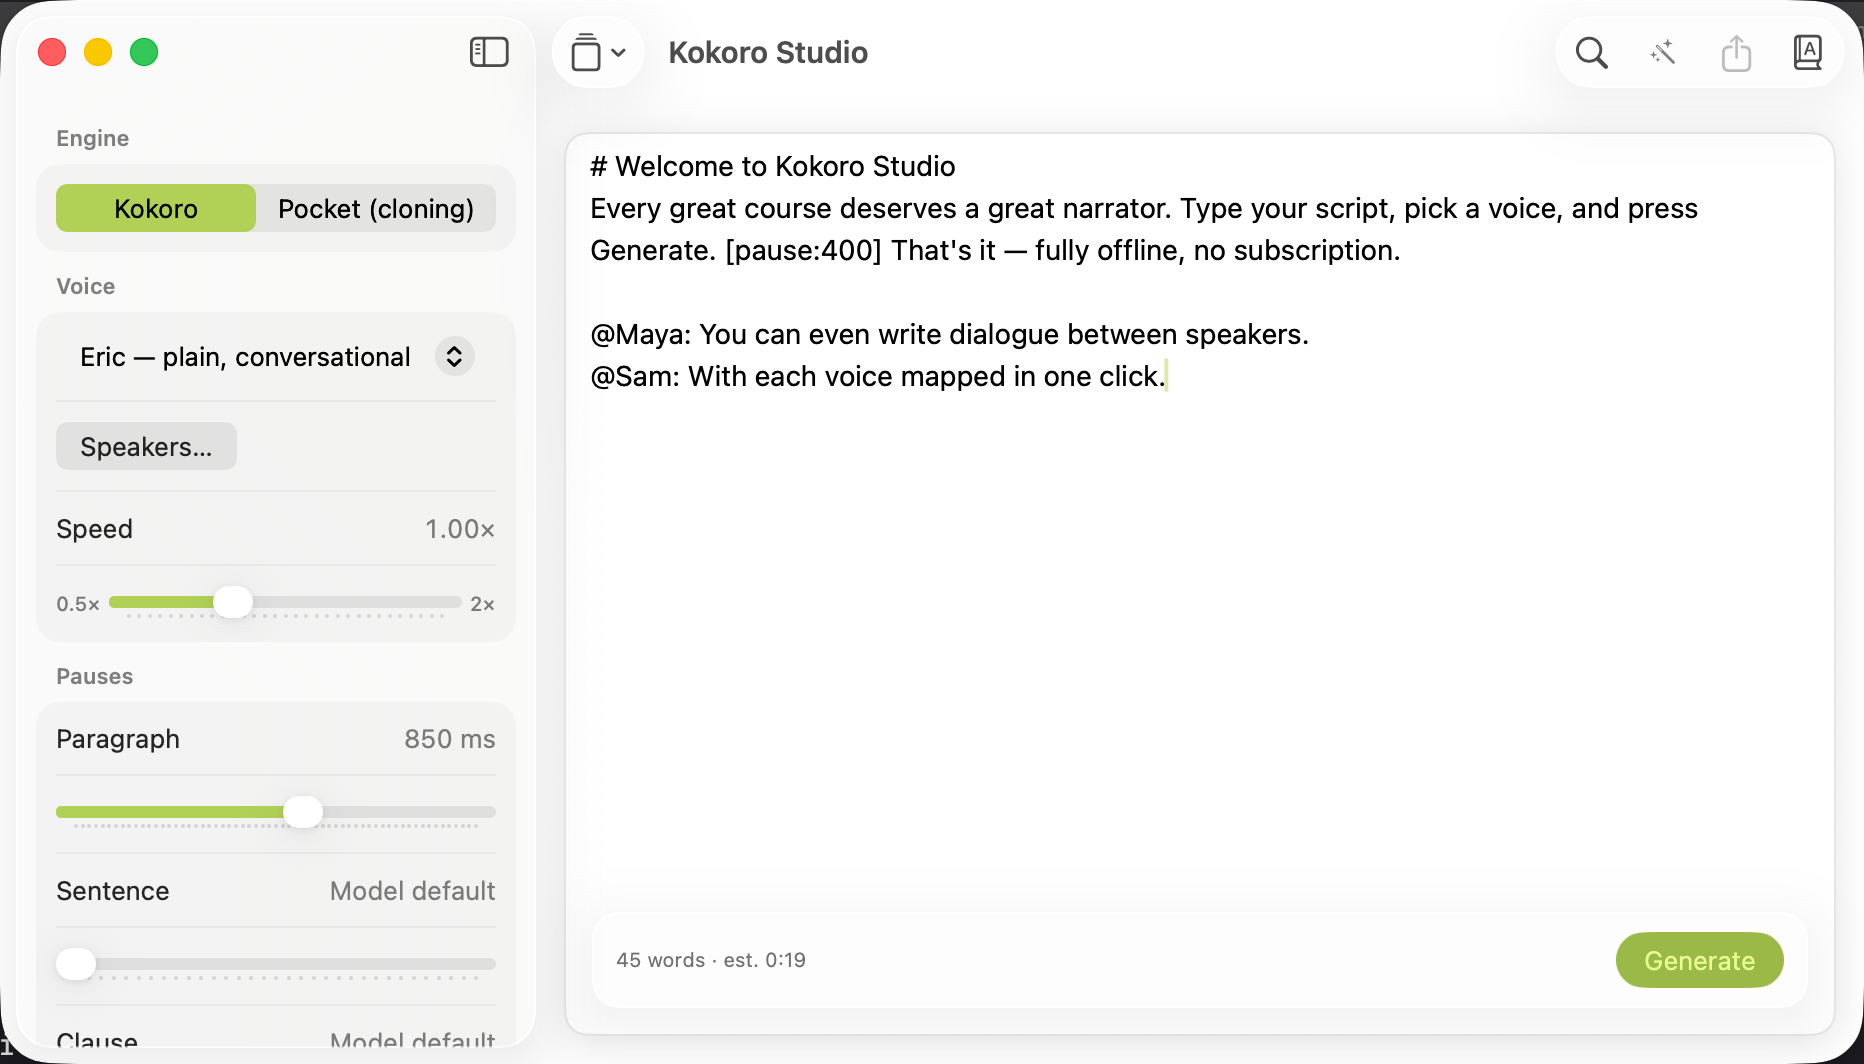
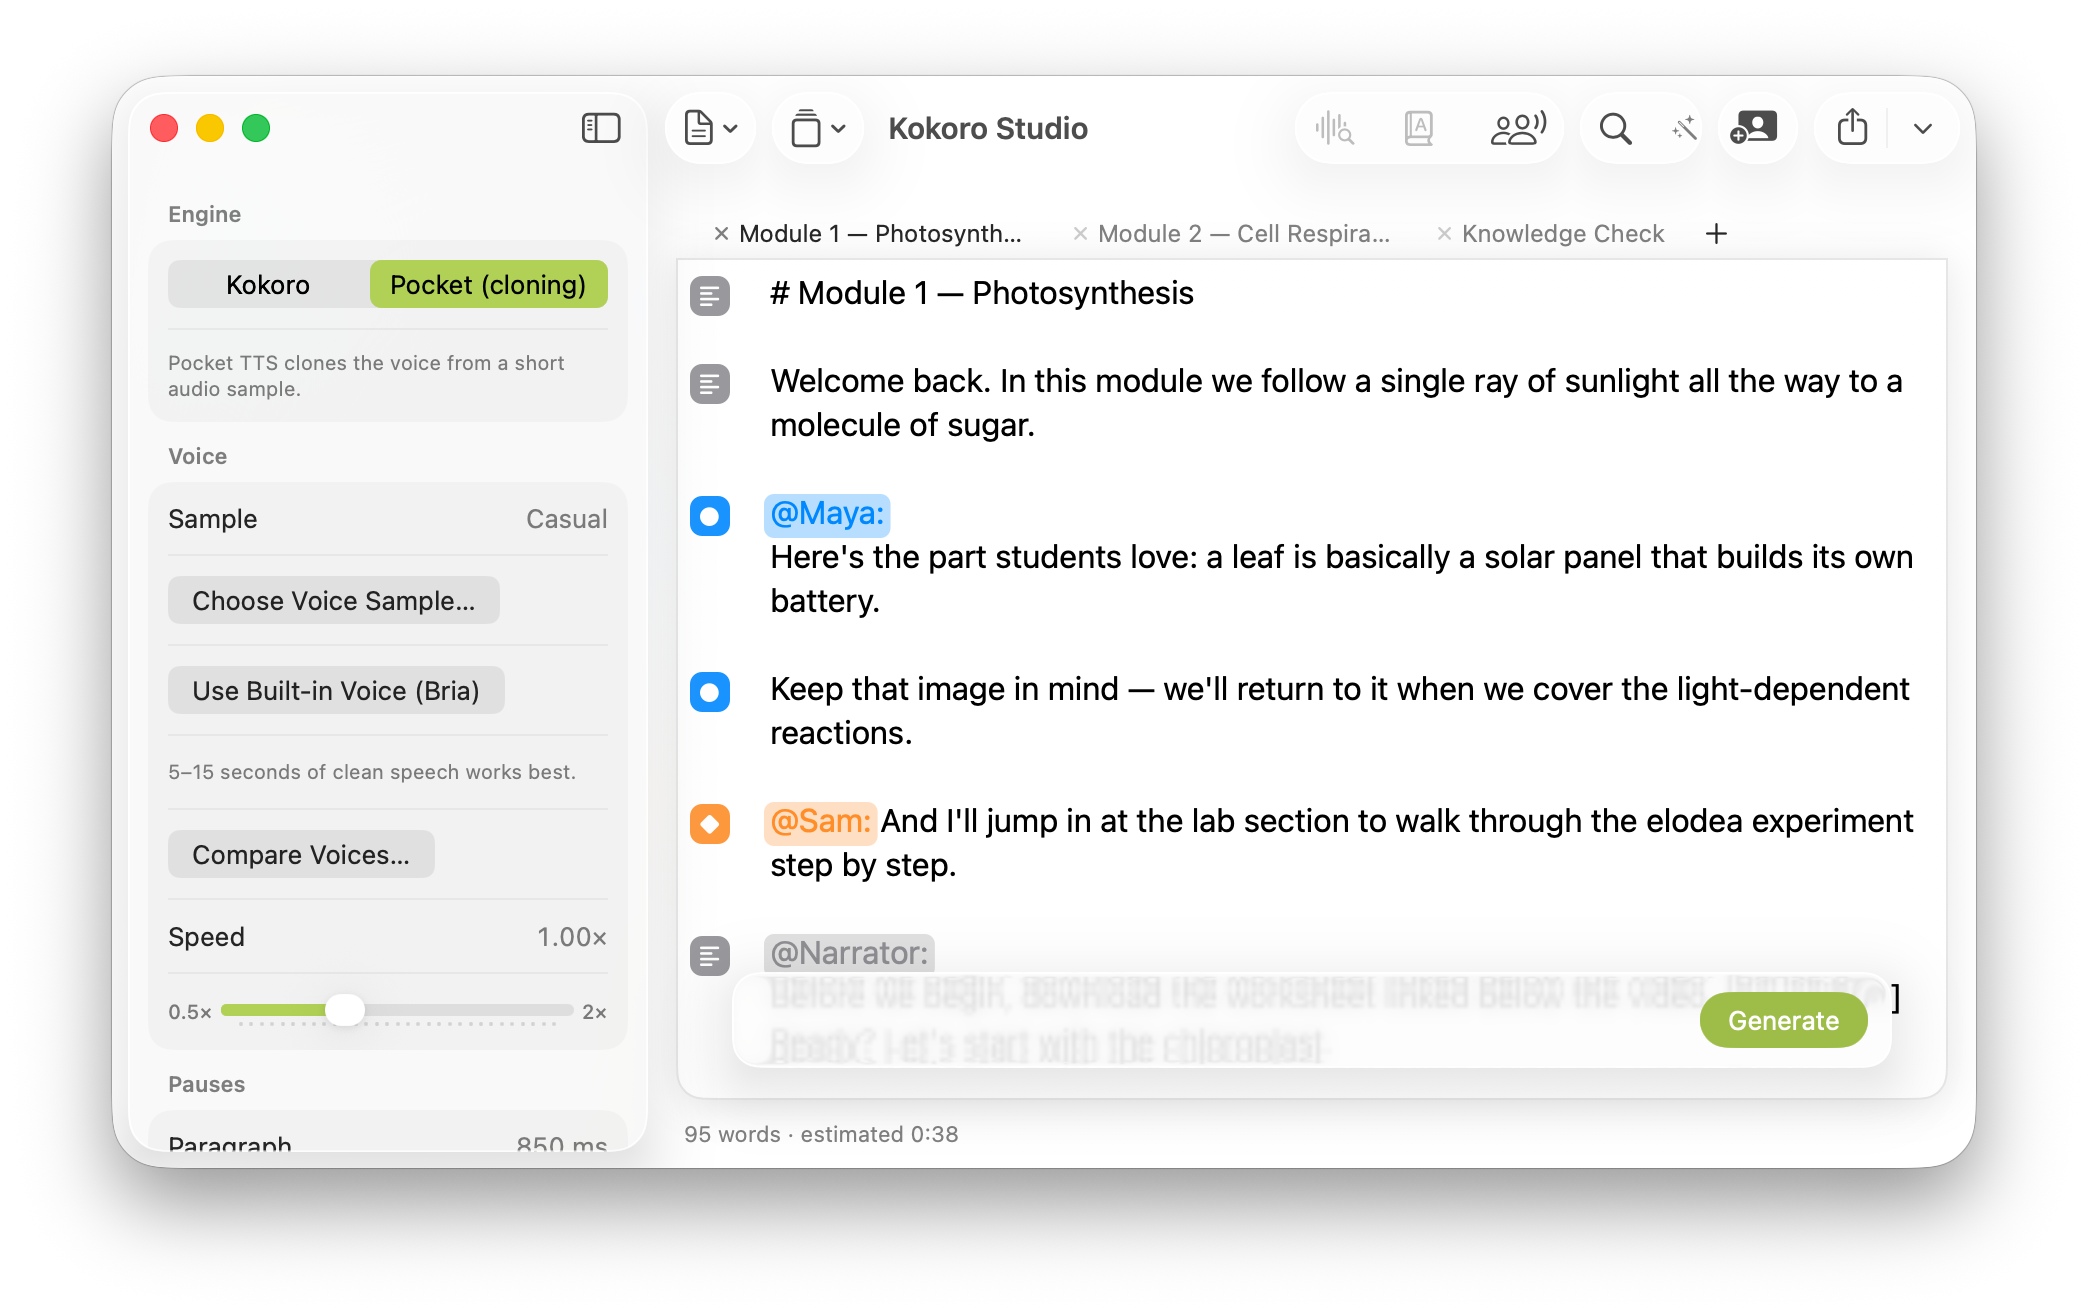
docs: README and screenshot for 1.5.1 — tabs, margin speakers, captions

diff --git a/README.md b/README.md
@@ -23,6 +23,10 @@ unzip, drag to Applications, double-click. macOS 14+ (Apple Silicon & Intel).
 - **Pocket TTS engine** — clone any voice from a 5–15 second audio sample
 - Multi-speaker dialogue: tag lines `@Maya:` / `@Sam:` and map each speaker
   to a voice
+- **Margin speaker mode**: a colored icon beside every paragraph shows who
+  speaks it — click to assign a speaker, or create one with its own voice
+  and color; `@Speaker:` tags render as colored chips and redundant tags
+  clean themselves up
 - **Compare Voices**: hear the same line in two voices side by side, then
   adopt the winner with one click
 
@@ -41,20 +45,23 @@ unzip, drag to Applications, double-click. macOS 14+ (Apple Silicon & Intel).
 
 **Output**
 - WAV (lossless) or M4A (AAC) export
-- Synced **VTT/SRT captions** with sample-accurate sentence cues
+- Synced **VTT/SRT captions** with sample-accurate sentence cues — dialogue
+  cues are labeled with the speaker's name where the speaker changes
 - **Module splitting**: `## file: lesson-2` markers export one audio +
   caption file per section from a single document
 - Loudness normalization: silence trim, −1 dBFS leveling, anti-click fades
 - **Loudness presets**: −16 LUFS podcast, −14 LUFS streaming, or a custom
   integrated-loudness target (BS.1770) at export
 - **Batch export**: queue several scripts and walk away — each renders
-  with its own profile, honors module splitting, and notifies when done
+  with its own profile, honors module splitting, and notifies when done;
+  the Export button's menu can also queue all open tabs in one click
 - Lead-in/lead-out silence padding for LMS players that clip
 - Live estimated audio length that calibrates from your actual generations
 
 **Editor**
-- **Script library**: every lesson lives in the sidebar with autosave —
-  each script remembers its profile
+- **Script tabs**: every lesson opens as a document tab above the editor,
+  with autosave — open tabs persist across launches, each script remembers
+  its profile, and the full library lives in the toolbar's Scripts menu
 - **Document import** (⌘O or drag-and-drop): `.docx`, `.md`, `.txt`,
   `.rtf` — headings and bold convert to script syntax, with a preview
   before anything touches your editor
@@ -82,6 +89,9 @@ unzip, drag to Applications, double-click. macOS 14+ (Apple Silicon & Intel).
 | Patch re-render edited lines | ⌥⌘↩ |
 | Preview selection | ⇧⌘↩ |
 | Export | ⌘S |
+| New script | ⌘T |
+| Close tab | ⇧⌘W |
+| Next / previous tab | ⌃Tab / ⌃⇧Tab |
 | Import document | ⌘O |
 | Play / Pause | ⌘P |
 | Add selection to dictionary | ⌘D |